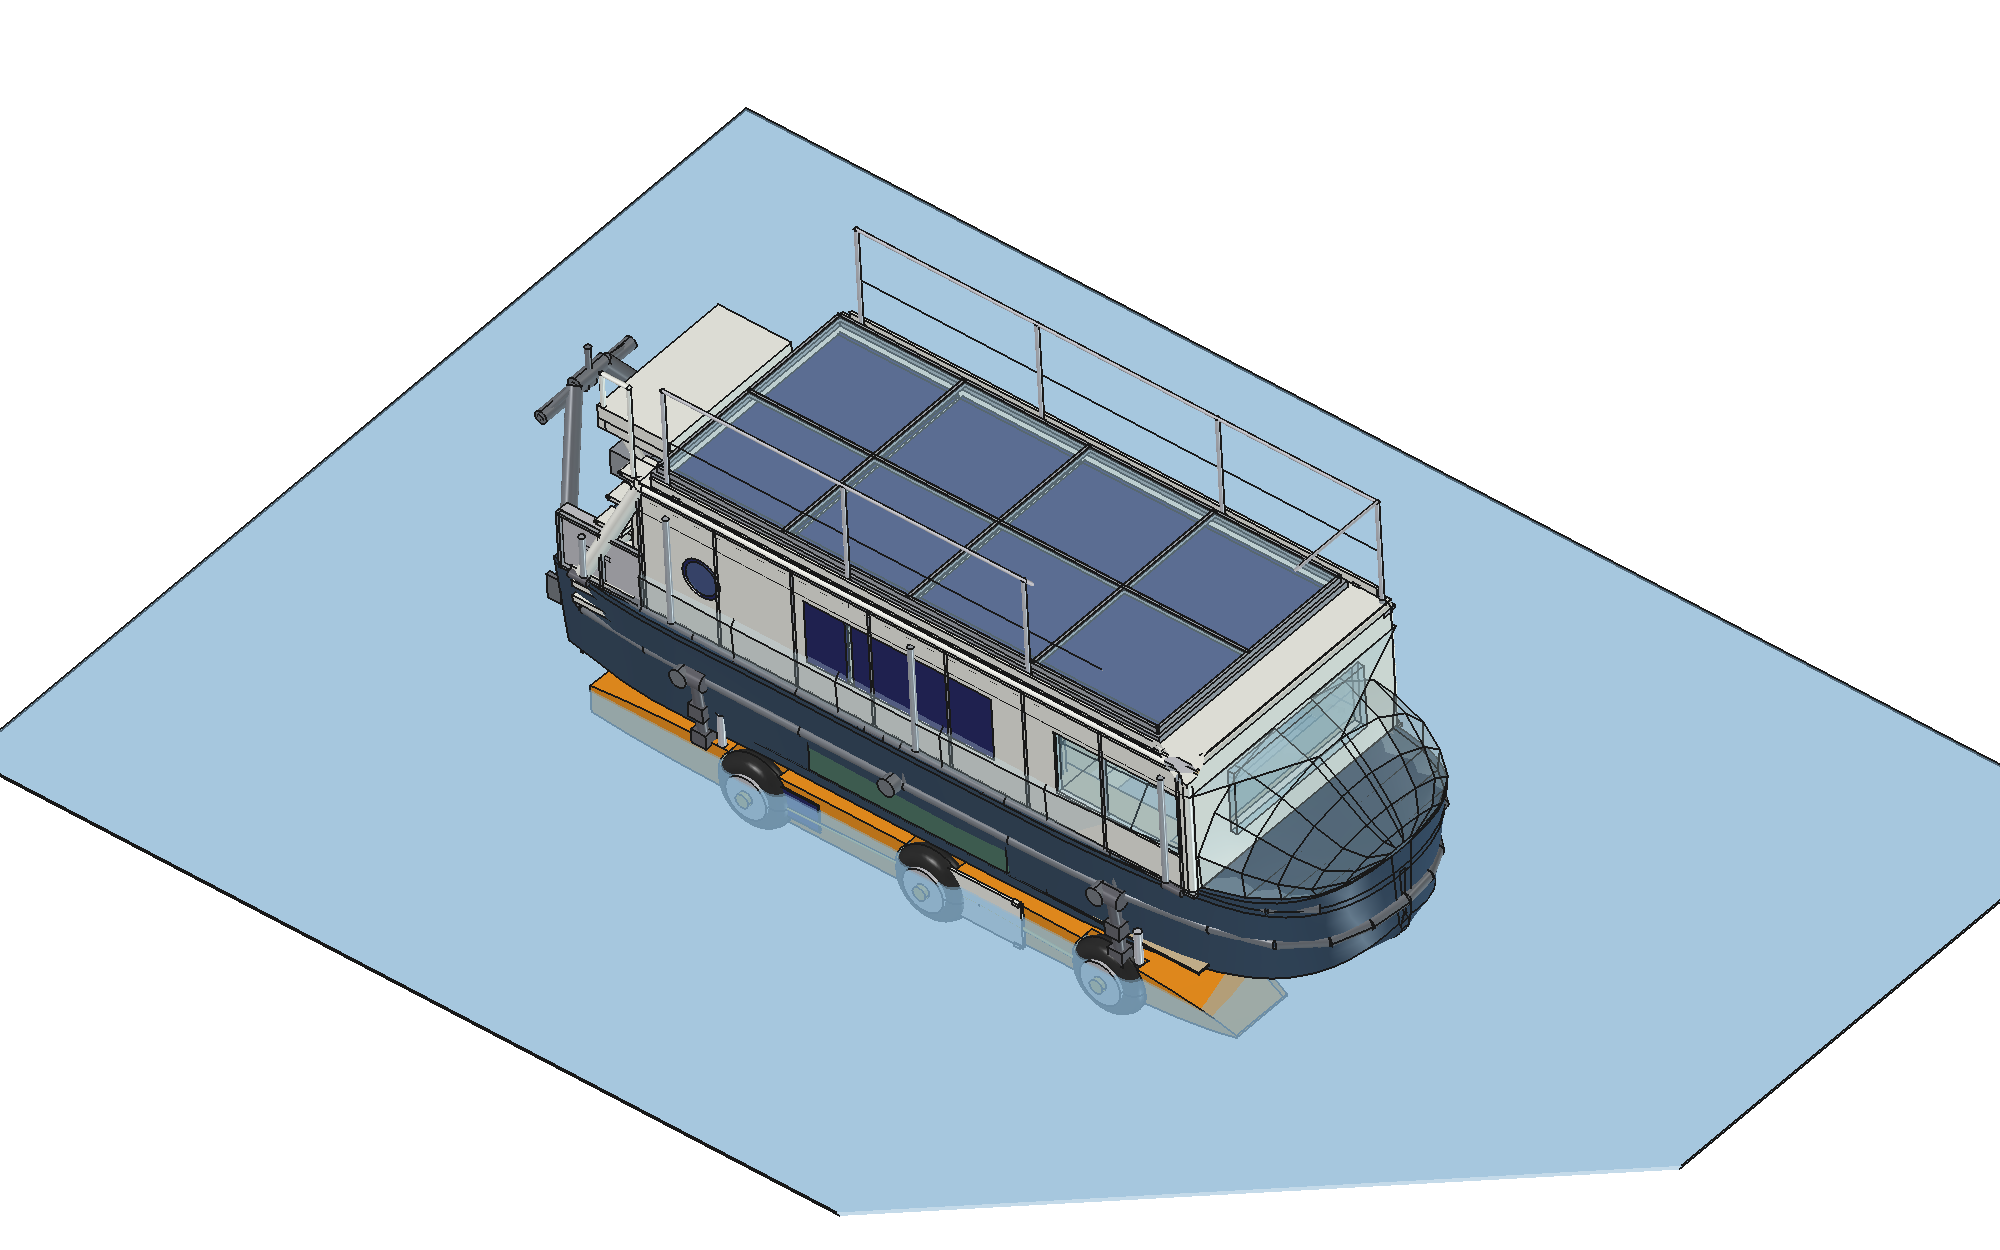
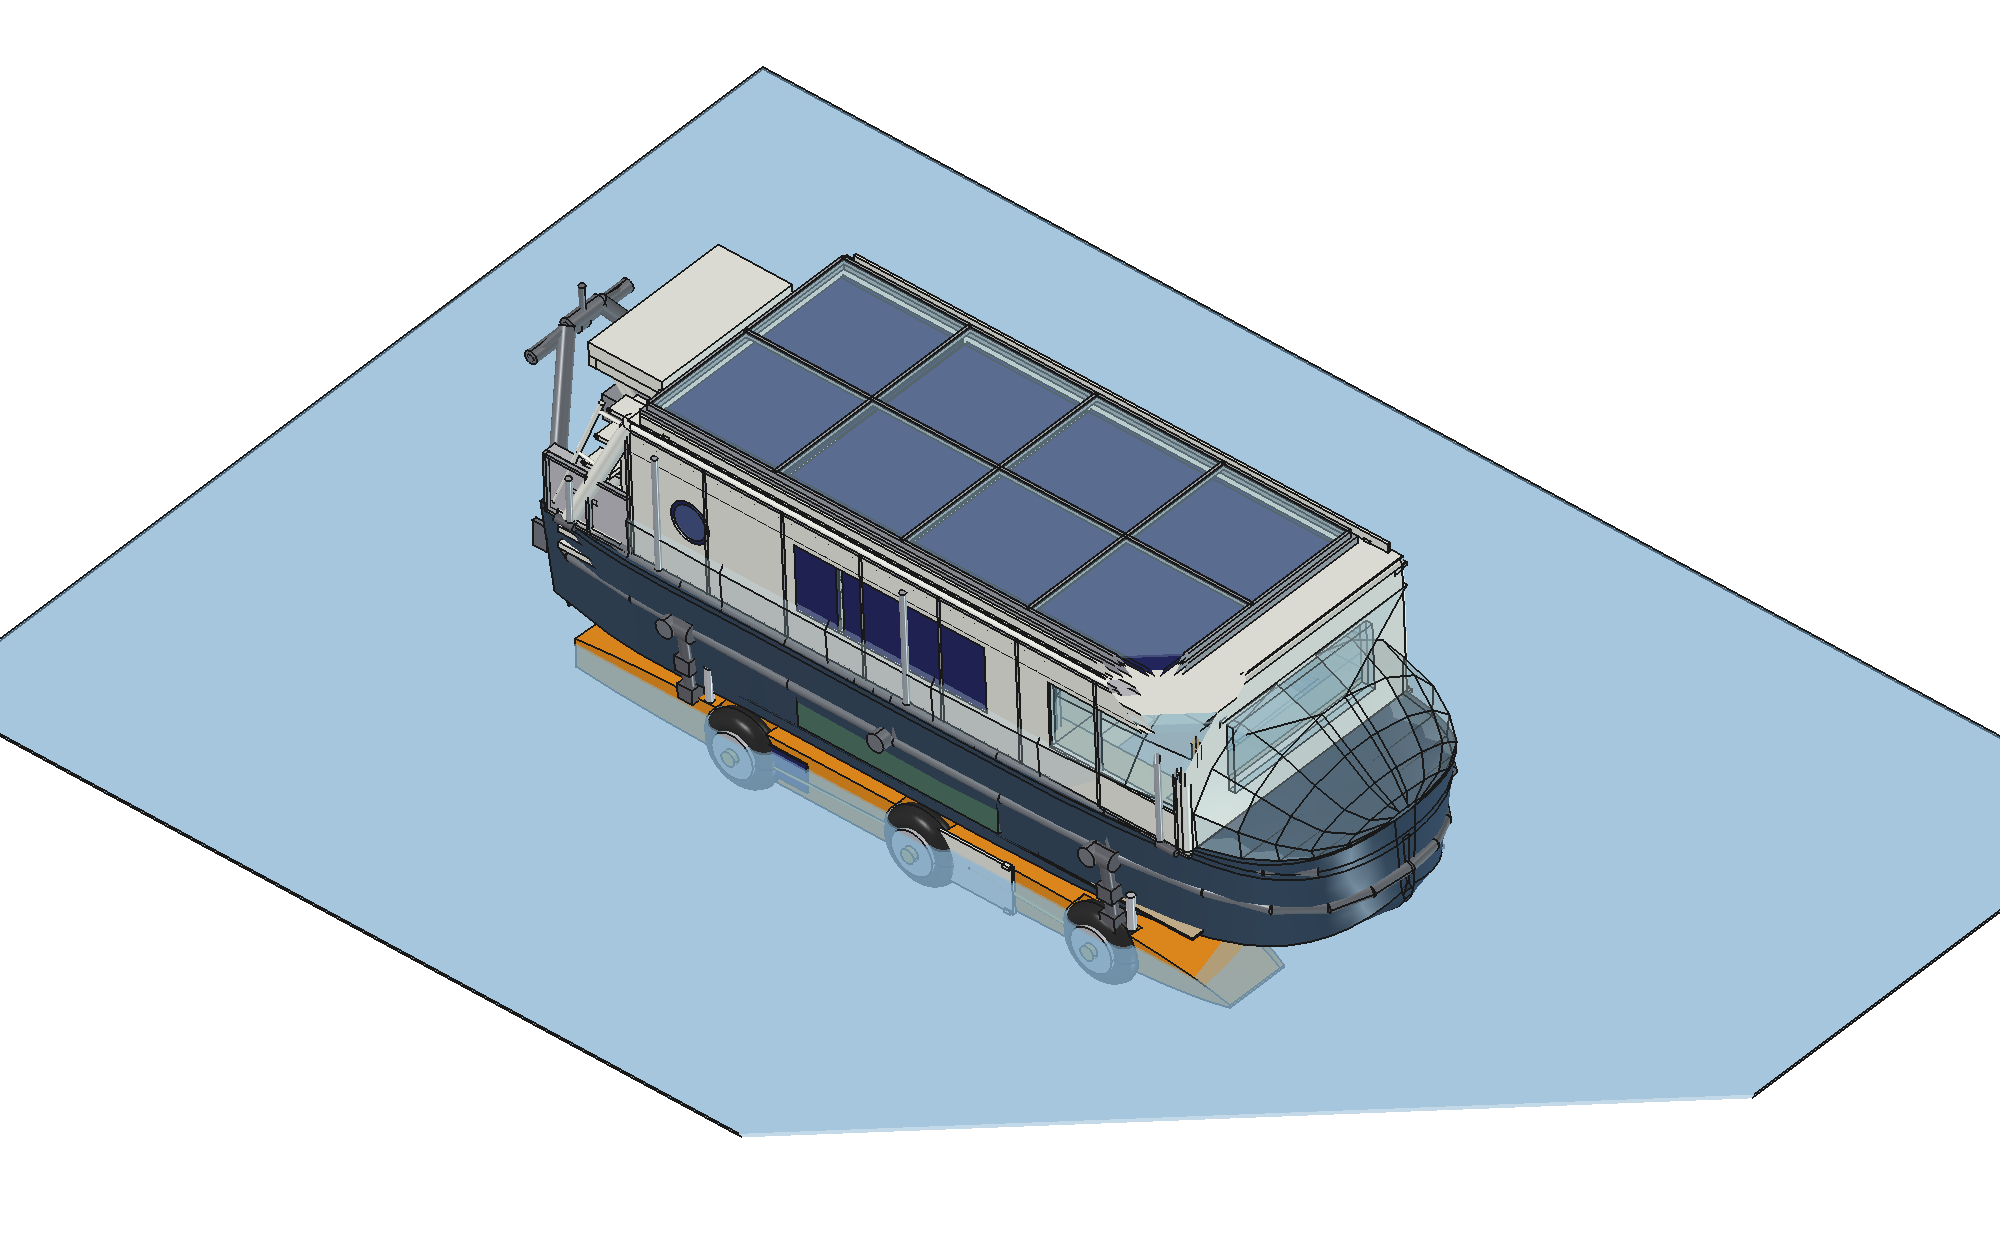
Remove the roof guardrail; handrail now follows the ladder
Max: the stanchions and lifelines on the sun deck looked awful and are
not wanted. The deck edge now carries the 80 mm toe rail and nothing
else - the fall risk from 2.4 m is accepted deliberately, and that is
written down in docs/roof.md rather than left implicit.

The ladder handrail no longer projects above deck level. Following
Max's reference photo, it is a second side rail running parallel to the
stringer on three short standoffs, offset 220 mm, clipped so it
terminates exactly at deck level - you grip it like a ladder rail while
climbing and nothing sticks up on the deck.

checks() now asserts a guardrail cannot reappear.

Changed region(s): [[0.0, 0.0624, 1.0, 0.9672], [0.961, 0.7176, 1.0, 0.78], [0.899, 0.8112, 0.93, 0.8424]]

diff --git a/freecad/build_boat.py b/freecad/build_boat.py
@@ -175,14 +175,14 @@ def terrace_plan():
             (P.CABIN_X0 + P.CABIN_X1) / 2)
 
 
-def build_terrace(rails=True):
+def build_terrace():
     """Roof terrace: bonded laminates on the structural roof, a
     ventilated air box, an alu grid and 8 walk-on glass panes over the
     top. Nothing here moves — the pop-top lift is gone.
-    Returns (deck, laminates, frame, glass, rail)."""
+    Returns (deck, laminates, frame, glass, None)."""
     tl, tw, cx = terrace_plan()
     z0 = P.CABIN_ROOF_Z
-    deck, lam, frame, glass, rail = [], [], [], [], []
+    deck, lam, frame, glass = [], [], [], []
 
     # walking surface of the structural roof, and its toe rail
     deck.append(box(tl, tw, 12, (cx - tl / 2, -tw / 2, z0)))
@@ -243,31 +243,11 @@ def build_terrace(rails=True):
                               -fhw + j * py + P.DECK_FRAME_W / 2 + 3,
                               tz - P.DECK_GLASS_T)))
 
-    # 5. removable stanchions + lifelines (sea modes only)
-    for sy in (-1, 1):
-        for bx in P.BAR_XS:
-            frame.append(Part.makeCylinder(
-                P.BAR_D / 2 + 8, 90, Vector(bx, sy * P.BAR_Y, z0 - 40)))
-            if rails:
-                rail.append(rod((bx, sy * P.BAR_Y, z0 + 12),
-                                (bx, sy * P.BAR_Y, z0 + P.RAIL_H), P.BAR_D))
-        if rails:
-            # a real top rail, not a wire: it reads as a guardrail and
-            # you can actually lean on it
-            rail.append(rod((P.BAR_XS[0], sy * P.BAR_Y, z0 + P.RAIL_H),
-                            (P.BAR_XS[-1], sy * P.BAR_Y, z0 + P.RAIL_H),
-                            P.BAR_D - 8))
-            rail.append(rod((P.BAR_XS[0], sy * P.BAR_Y, z0 + P.RAIL_H / 2),
-                            (P.BAR_XS[-1], sy * P.BAR_Y, z0 + P.RAIL_H / 2),
-                            P.LIFELINE_D))
-            # tie the two sides together across the forward end
-            if sy > 0:
-                rail.append(rod((P.BAR_XS[-1], -P.BAR_Y, z0 + P.RAIL_H),
-                                (P.BAR_XS[-1], P.BAR_Y, z0 + P.RAIL_H),
-                                P.BAR_D - 8))
+    # 5. NO guardrail (Max): the deck edge is clean, with only the toe
+    #    rail. Nothing stands up off this deck.
+
     return (Part.makeCompound(deck), Part.makeCompound(lam),
-            Part.makeCompound(frame), Part.makeCompound(glass),
-            Part.makeCompound(rail) if rail else None)
+            Part.makeCompound(frame), Part.makeCompound(glass), None)
 
 
 # ---------------------------------------------------------------
@@ -752,13 +732,24 @@ def build_aft_entry(rail_up=False, door_open=False):
                          (tx - 95, y_lo + (P.STAIR_Y1 - P.STAIR_Y0) / 2 - 40,
                           tz - 20), 40))
 
-    # SMALL grab rail beside the ladder head — a handhold exactly
-    # where you step off onto the terrace, and nothing else. No long
-    # folding rail running along the deck edge.
+    # Handrail that FOLLOWS THE LADDER (Max's reference photo): a
+    # second side rail parallel to the stringer, offset 220 mm on short
+    # standoffs, terminating exactly AT deck level — nothing sticks up
+    # above the roof deck.
     ry = P.STAIR_Y0 + 55
-    parts.append(rod((sx1 - 40, ry, z1), (sx1 - 40, ry, z1 + 880), 42))
-    parts.append(rod((sx1 - 40, ry, z1 + 880), (sx1 - 300, ry, z1 + 880), 42))
-    parts.append(rod((sx1 - 300, ry, z1 + 880), (sx1 - 300, ry, z1 + 560), 42))
+    run, rise = sx1 - sx0, z1 - z0
+    ln = math.hypot(run, rise)
+    ux, uz = run / ln, rise / ln
+    off = 220
+    rx0, rz0 = sx0 - uz * off, z0 + ux * off
+    rx1, rz1 = sx1 - uz * off, z1 + ux * off
+    t = (P.CABIN_ROOF_Z - rz0) / (rz1 - rz0)      # clip at the deck
+    rx1, rz1 = rx0 + t * (rx1 - rx0), P.CABIN_ROOF_Z
+    parts.append(rod((rx0, ry, rz0), (rx1, ry, rz1), 42))
+    for f in (0.08, 0.5, 0.92):                   # standoffs to the stringer
+        parts.append(rod((sx0 + f * run, ry, z0 + f * rise),
+                         (rx0 + f * (rx1 - rx0), ry, rz0 + f * (rz1 - rz0)),
+                         30))
 
     # --- AC ventilator box (upper right) and lockers (rest of the wall)
     ac = box(P.AC_DEPTH, P.AC_Y1 - P.AC_Y0, P.AC_Z1 - P.AC_Z0,
@@ -1103,14 +1094,11 @@ def build_mode(mode):
     add("Fittings", iglass, (0.20, 0.22, 0.24), group=g_int)
 
     g_roof = doc.addObject("App::DocumentObjectGroup", "RoofDeck")
-    tdeck, tlam, tframe, tglass, trail = build_terrace(
-        rails=cfg["tow"] == "sea")
+    tdeck, tlam, tframe, tglass, trail = build_terrace()
     add("Terrace", tdeck, WHITE, group=g_roof)
     add("DeckLaminates", tlam, PANEL, group=g_roof)
     add("DeckFrame", tframe, (0.62, 0.64, 0.67), group=g_roof)
     add("WalkOnGlass", tglass, (0.62, 0.78, 0.86), 72, group=g_roof)
-    if trail:
-        add("Guardrail", trail, STEEL, group=g_roof)
 
     pod = P.pod_at(cfg["phi"])
     roll = 90 - cfg["phi"]          # rigid arm: roll locked to swing

diff --git a/freecad/params.py b/freecad/params.py
@@ -343,15 +343,9 @@ DECK_VENT_H = 25                   # mesh slots fore and aft of the box
 TERRACE_TOERAIL = 80
 TERRACE_SCUPPER = 60               # corner drains
 
-# guardrail: the old plug-in bar sockets stay, but the bars are now
-# 1000 mm stanchions with two lifelines, removable for the road
-BAR_D = 42                     # slim stanchion; a fence looks wrong here
-BAR_T = 3
-BAR_XS = (1150, 2883, 4617, 6150)
-BAR_Y = 1120                       # inside the toe rail
-RAIL_H = 1000
-LIFELINE_N = 2
-LIFELINE_D = 6
+# NO guardrail on the roof deck (Max: the stanchions and lifelines
+# looked awful). The edge carries the toe rail and nothing else — a sun
+# deck to sit on, not a working deck; the fall risk is accepted.
 
 DECK_PANELS = 4                    # what actually fits — see deck_panel_xy()
 PANEL_W_PEAK = MODULE_500_W        # W per roof module
@@ -796,7 +790,7 @@ def checks(verbose=True):
         f"air box {AIRBOX_H} too shallow for a {mod_t} mm framed module"
     assert DECK_BUILDUP == AIRBOX_H + DECK_FRAME_H + DECK_GLASS_T, \
         "deck build-up does not add up"
-    assert RAIL_H >= 1000, f"guardrail {RAIL_H} mm too low for a roof deck"
+    assert "RAIL_H" not in globals(), "a guardrail crept back onto the deck"
     assert interior_clear >= 1800, f"interior clear only {interior_clear}"
     assert m_heel_crew <= 0.3 * m_right, \
         f"crew on one side heels {m_heel_crew:.1f} vs righting {m_right:.1f}"
@@ -865,6 +859,7 @@ def checks(verbose=True):
         print(f"roof modules    {DECK_PANELS} x standard {mod_l}x{mod_w} "
               f"{MODULE_500_W} W framed, laid across, "
               f"{DECK_PANELS * MODULE_500_KG} kg")
+        print(f"deck edge       toe rail {TERRACE_TOERAIL} mm, no guardrail")
         print(f"deck loads      {DECK_LOAD_UDL * 1000:.1f} kN/m2 + "
               f"{DECK_LOAD_POINT / 1000:.1f} kN point; crew one side "
               f"{m_heel_crew:.1f} vs righting {m_right:.1f} kNm")

diff --git a/docs/aft_entry.md b/docs/aft_entry.md
@@ -81,14 +81,14 @@ stair): eight half-width treads that swap sides, so each foot gets a
 250 mm-deep step in half the going a normal stair would need. Two
 stringers on edge carry them.
 
-**One small grab rail, at the ladder head.** Max's call: no long rail
-running along the deck edge — just a handhold exactly where you need
-it. A compact inverted-U grab, 880 mm high, is bolted **beside the top
-of the ladder** on the outboard side, so there is something to hold as
-you step off onto the terrace. Nothing folds, nothing stands in the
-way lower down, and the roof deck has its own guardrail once you are
-up there. The inboard side of the ladder needs nothing: it faces the
-cabin wall, and the footwell drop beside it is only 530 mm.
+**A handrail that follows the ladder.** Max's reference is the boarding
+ladder on a Sea-class motor yacht: a second side rail running
+**parallel to the stringer**, carried on three short standoffs, that
+you grip like a ladder rail as you climb. It is offset 220 mm from the
+stringer and **terminates exactly at deck level** — nothing projects
+above the roof deck, which is what made the earlier version ugly. The
+inboard side needs nothing: it faces the cabin wall, and the footwell
+drop beside it is only 530 mm.
 
 If a gentler stair is ever wanted, the only way is to hang it along
 the cabin side over a solar balcony (1 300 mm of run → 37°) — at the

diff --git a/docs/roof.md b/docs/roof.md
@@ -98,9 +98,11 @@ a dropped anchor are all inside the envelope.
 - **Cabling and junction boxes** live in the perimeter channel, never
   under a walked pane.
 - **Anti-slip**: ceramic frit, R11, on the top face.
-- **Guardrail**: the plug-in bar sockets remain, but the bars are now
-  **1 000 mm stanchions with two lifelines**, removable so they cost
-  nothing on the road.
+- **No guardrail** (Max: the stanchions and lifelines looked awful).
+  The edge carries the 80 mm toe rail and nothing else. This is a sun
+  deck to sit on rather than a working deck, and the fall risk from
+  2.4 m is accepted deliberately — worth knowing before anyone brings
+  children aboard.
 - **Stability**: four people hard to one side is 3.7 kNm of heeling
   against ≈31 kNm of float righting — asserted in `checks()`.
 

diff --git a/README.md b/README.md
@@ -27,7 +27,7 @@ hydrostatic constraint is asserted in code.
 | Aft entry | self-draining cockpit, gasketed storm door, rain porch, ladder to the terrace |
 | Cabin | 5.3 × 2.28 m inside, 1.85 m clear headroom |
 | Interior | heads with shower, galley (fridge/freezer tower, washer), dinette that sleeps 2, athwartships double; batteries + water under the settees |
-| Roof deck | walk-on glass over a ventilated air box: 8 laminated panes on an alu grid, panels bonded underneath — no moving parts |
+| Roof deck | walk-on glass over a ventilated air box: 8 laminated panes on an alu grid, modules underneath — no moving parts, no guardrail |
 | Side balconies | full-width 500 W modules recessed into an alu ladder frame, 48 mm folded; the 540 mm aft passage is the walked route |
 
 ## The five configurations

diff --git a/docs/glossary.md b/docs/glossary.md
@@ -41,7 +41,7 @@ Shared language for the design. Geometry values live in
 - **Frit** — ceramic pattern fired onto the glass; here the anti-slip
   (R11) surface of the deck.
 - **Standard framed module** — an ordinary aluminium-framed PV panel
-  (here 1 480 × 670, 165 W). Chosen for the balconies because they are
+  (here 1 934 × 1 134, 500 W). Chosen for the balconies because they are
   standardised, cheap and replaceable anywhere, unlike bonded
   laminates.
 - **Recessed module** — a framed panel dropped INTO the depth of the
